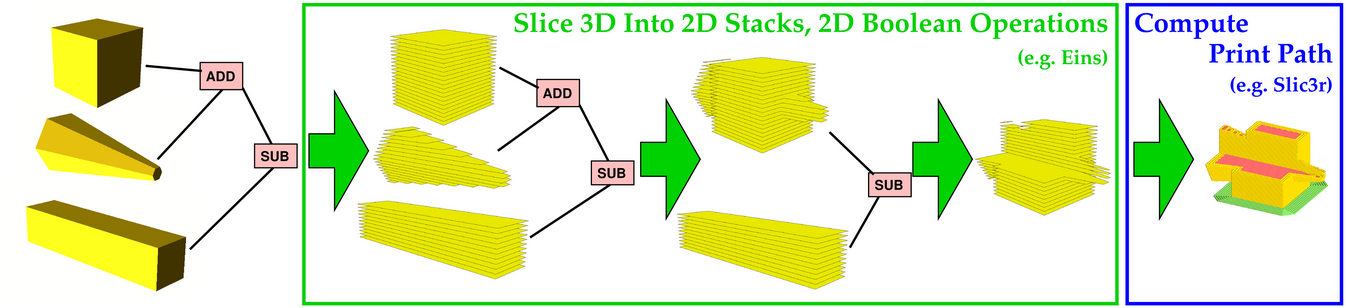
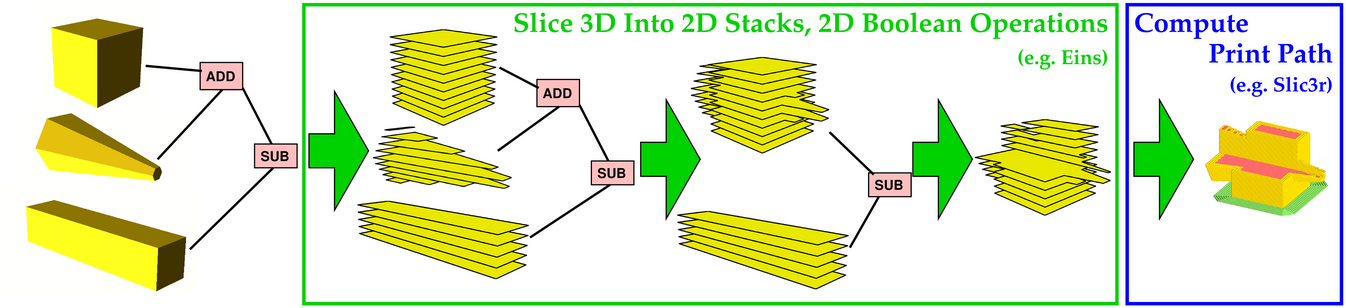
update images to look better at high resolution

diff --git a/src/csg2-2ps.c b/src/csg2-2ps.c
@@ -277,17 +277,17 @@ extern void cp_csg2_tree_put_ps(
         k.bb.max.y = -99999;
 
         size_t page_cnt = 0;
-        cp_ps_doc_begin(s, CP_SIZE_MAX, 0, 0, -1, -1);
+        cp_ps_doc_begin(s, cp_debug_ps_opt, CP_SIZE_MAX, 0, 0, -1, -1);
         if (opt->single_page) {
             page_cnt++;
-            cp_ps_page_begin(s, page_cnt);
+            cp_ps_page_begin(s, cp_debug_ps_opt, page_cnt);
         }
 
         for (cp_v_each(zi, &t->z)) {
             if (cp_v_nth(&t->flag, zi) & CP_CSG2_FLAG_NON_EMPTY) {
                 if (!opt->single_page) {
                     page_cnt++;
-                    cp_ps_page_begin(s, page_cnt);
+                    cp_ps_page_begin(s, cp_debug_ps_opt, page_cnt);
                     cp_printf(s, "10 10 moveto (z=%g zi=%"_Pz"u) show\n", cp_v_nth(&t->z, zi), zi);
                 }
 

diff --git a/src/ps.c b/src/ps.c
@@ -46,6 +46,7 @@ extern double cp_ps_y(cp_ps_xform_t const *d, double y)
 
 extern void cp_ps_doc_begin(
     cp_stream_t *s,
+    cp_ps_opt_t const *opt __unused,
     size_t page_cnt,
     long x1, long y1, long x2, long y2)
 {
@@ -107,6 +108,7 @@ extern void cp_ps_doc_end(
 
 extern void cp_ps_page_begin(
     cp_stream_t *s,
+    cp_ps_opt_t const *opt,
     size_t page)
 {
     cp_printf(s,
@@ -114,10 +116,11 @@ extern void cp_ps_page_begin(
         "save\n"
         "1 setlinecap\n"
         "1 setlinejoin\n"
-        "0.4 setlinewidth\n"
+        "%g setlinewidth\n"
         "0 setgray\n"
         "/Helvetica findfont 18 scalefont setfont\n",
-        page, page);
+        page, page,
+        opt->line_width);
 }
 
 extern void cp_ps_page_end(

diff --git a/src/main.c b/src/main.c
@@ -114,6 +114,7 @@ static bool do_file(
 #ifdef PSTRACE
         cp_ps_xform_from_bb(&cp_debug_ps_xform,
             full_bb.min.x, full_bb.min.y, full_bb.max.x, full_bb.max.y);
+        cp_debug_ps_opt = &opt->ps;
 #endif
     }
     else {
@@ -400,6 +401,7 @@ int main(int argc, char **argv)
     opt.ps.color_fill   = (cp_color_rgb_t){ 204, 204, 204 };
     opt.ps.color_vertex = (cp_color_rgb_t){ 255,   0,   0 };
     opt.ps.color_mark   = (cp_color_rgb_t){   0,   0, 255 };
+    opt.ps.line_width = 0.4;
 
     /* parse command line */
     cp_v_cstr_t file = CP_V_INIT;

diff --git a/include/csg2plane/ps_tam.h b/include/csg2plane/ps_tam.h
@@ -30,7 +30,7 @@ typedef struct {
 } cp_ps_xform_t;
 
 /**
- * Options for ps outpu */
+ * Options for ps output */
 typedef struct {
     cp_ps_xform_t const *xform1;
     cp_mat4_t xform2;
@@ -39,6 +39,7 @@ typedef struct {
     cp_color_rgb_t color_fill;
     cp_color_rgb_t color_vertex;
     cp_color_rgb_t color_mark;
+    double line_width;
     bool single_page;
     bool no_tri;
     bool no_path;

diff --git a/src/csg2-bool.c b/src/csg2-bool.c
@@ -356,7 +356,7 @@ static void debug_print_s(
     /* output to postscript */
     if (cp_debug_ps != NULL) {
         /* begin page */
-        cp_ps_page_begin(cp_debug_ps, ++cp_debug_ps_page_cnt);
+        cp_ps_page_begin(cp_debug_ps, cp_debug_ps_opt, ++cp_debug_ps_page_cnt);
 
         /* print info */
         cp_printf(cp_debug_ps, "30 30 moveto (CSG: %s) show\n", msg);

diff --git a/include/csg2plane/ps.h b/include/csg2plane/ps.h
@@ -42,6 +42,7 @@ extern void cp_ps_xform_from_bb(
  */
 extern void cp_ps_doc_begin(
     cp_stream_t *s,
+    cp_ps_opt_t const *opt,
     size_t page_cnt,
     long x1, long y1, long x2, long y2);
 
@@ -61,6 +62,7 @@ extern void cp_ps_doc_end(
 
 extern void cp_ps_page_begin(
     cp_stream_t *s,
+    cp_ps_opt_t const *opt,
     size_t page);
 
 extern void cp_ps_page_end(

diff --git a/src/csg2-triangle.c b/src/csg2-triangle.c
@@ -308,7 +308,7 @@ static void dump_ey(
 #ifdef PSTRACE
     if (cp_debug_ps != NULL) {
         /* begin page */
-        cp_ps_page_begin(cp_debug_ps, ++cp_debug_ps_page_cnt);
+        cp_ps_page_begin(cp_debug_ps, cp_debug_ps_opt, ++cp_debug_ps_page_cnt);
 
         /* print info */
         cp_printf(cp_debug_ps, "30 30 moveto (TRI: %s) show\n", msg);

diff --git a/src/internal.c b/src/internal.c
@@ -8,6 +8,7 @@ FILE *cp_debug_ps_file = NULL;
 cp_stream_t *cp_debug_ps = NULL;
 size_t cp_debug_ps_page_cnt = 0;
 cp_ps_xform_t cp_debug_ps_xform = CP_PS_XFORM_MM;
+cp_ps_opt_t const *cp_debug_ps_opt = NULL;
 #endif
 
 extern int cp_trace_level(int i)

diff --git a/src/internal.h b/src/internal.h
@@ -33,6 +33,7 @@ extern FILE *cp_debug_ps_file;
 extern cp_stream_t *cp_debug_ps;
 extern size_t cp_debug_ps_page_cnt;
 extern cp_ps_xform_t cp_debug_ps_xform;
+extern cp_ps_opt_t const *cp_debug_ps_opt;
 
 /**
  * Transform using cp_debug_ps_xform.
